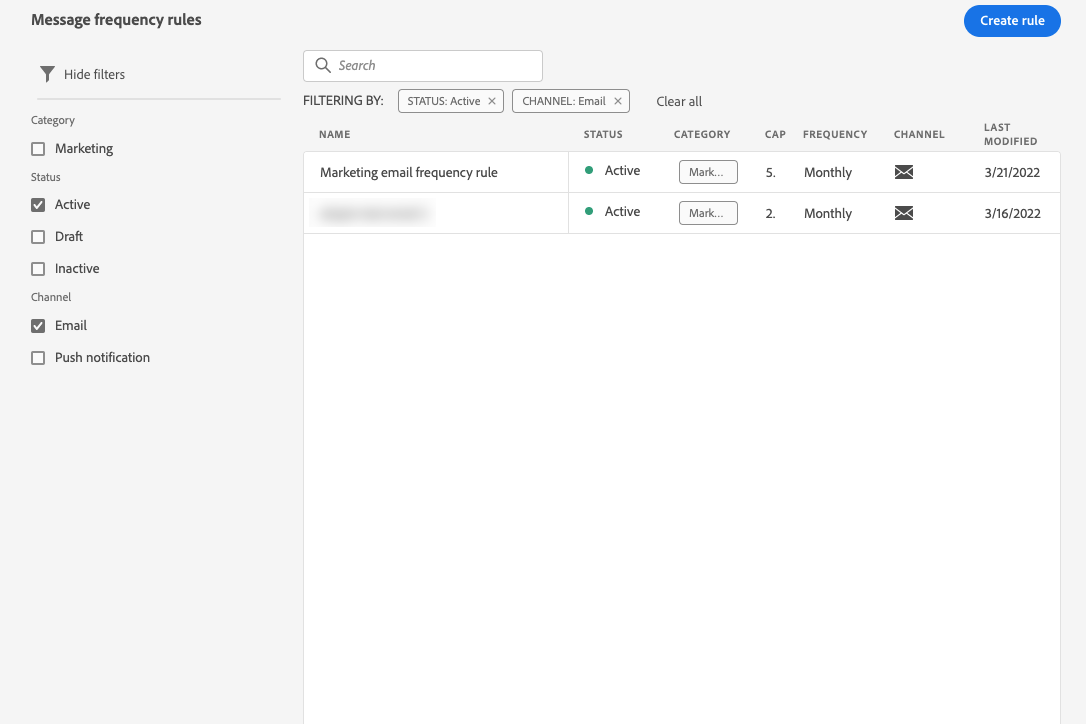
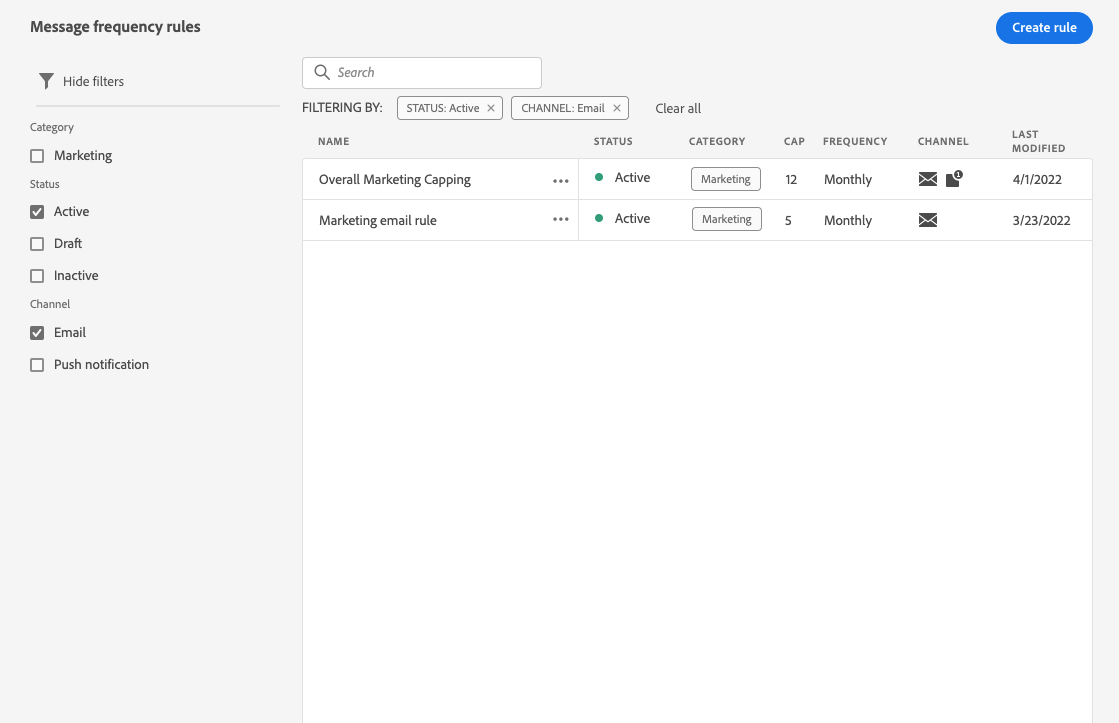
Rules updates (#679)
* Frequency rules example

* page fix

* Update frequency-rules.md

minor edits

* Update message-rules-create.png

diff --git a/help/using/configuration/frequency-rules.md b/help/using/configuration/frequency-rules.md
@@ -49,7 +49,7 @@ To create a new rule, follow the steps below.
 
    >[!NOTE]
    >
-   >Currently only the **[!UICONTROL Marketing]** category is availble.
+   >Currently only the **[!UICONTROL Marketing]** category is available.
 
 1. Set the capping for your rule, meaning the maximum number of messages that can be sent to an individual user profile each month.
 
@@ -77,7 +77,7 @@ To create a new rule, follow the steps below.
 
 ## Activate a rule {#activate-rule}
 
-To activate a message frequency rule, click the ellipsis next to the rule and select **[!UICONTROL Activate]**.
+When created, a message frequency rule has the **[!UICONTROL Draft]** status and is not impacting yet any message. To enable it, click the ellipsis next to the rule and select **[!UICONTROL Activate]**.
 
    ![](assets/message-rules-activate.png)
 
@@ -99,28 +99,70 @@ The rule's status will change to **[!UICONTROL Inactive]** and the rule will not
 
 ## Apply a frequency rule to a message {#apply-frequency-rule}
  
-To apply a frequency rule to a message, you simply need to select the category you defined for this rule when [creating the message](../messages/get-started-content.md#create-new-message).
+To apply a frequency rule to a message, follow the steps below.
 
-![](assets/message-rules-properties.png)
+1. Create a message. [Learn more](../messages/get-started-content.md#create-new-message)
 
-By selecting the **[!UICONTROL Marketing]** category, all the matching message frequency rules will be automatically applied to this message.
+1. Select the category you defined for the [rule you created](#create-new-rule).
+
+   ![](assets/message-rules-msg-properties.png)
+
+   >[!NOTE]
+   >
+   >Currently only the **[!UICONTROL Marketing]** category is available for message frequency rules.
+
+1. Select the channel(s) of your choice for your message.
+
+   ![](assets/message-rules-msg-channels.png)
+
+1. You can click the **[!UICONTROL Frequency rule]** link to view the frequency rules that will apply for the selected category and channel(s).
+
+   ![](assets/message-rules-msg-link.png)
+
+   A new tab will open to display the matching message frequency rules.
+
+1. [Design](../design/design-emails.md) and [publish](../messages/publish-manage-message.md) your message.
+
+All the frequency rules matching the selected category and channel(s) will be automatically applied to this message.
 
 <!--Clicking the link out button next to the category selector will jump you over to the rules inventory screen to see which rules will be applied to the message.-->
 
 You can view the number of profiles excluded from delivery in the [Live and Global views](../reports/message-monitoring.md), and in the [email Live report](../reports/email-live-report.md), where frequency rules will be listed as a possible reason for users excluded from delivery.
 
-## Example
+## Example: combine several rules {#frequency-rule-example}
 
 You can combine several message frequency rules, such as described in the example below.
 
-1. Create a rule called *Overall Marketing Capping*:
+1. [Create a rule](#create-new-rule) called *Overall Marketing Capping*:
 
    * Select all channels (Email, Push).
    * Set capping to 12.
 
-1. To further restrict the number of marketing-based push notifications that a user is sent, create a second rule called *Limit marketing push*:
+   ![](assets/message-rules-ex-overall-cap.png)
+
+1. To further restrict the number of marketing-based push notifications that a user is sent, create a second rule called *Push Marketing Cap*:
 
    * Select Push channel.
    * Set capping to 4.
 
-In this scenario, an individual profile can receive up to 12 marketing messages per month, but will be exclude from marketing push notifications after they have received 4 push notifications.
+   ![](assets/message-rules-ex-push-cap.png)
+
+1. Save and [activate](#activate-rule) the rule.
+
+1. Create a message. [Learn more](../messages/get-started-content.md#create-new-message)
+
+1. Select the **[!UICONTROL Marketing]** category.
+
+   ![](assets/message-rules-ex-category-maktg.png)
+
+1. Select the **[!UICONTROL Email]** and **[!UICONTROL Push Notification]** channels.
+
+   ![](assets/message-rules-ex-channels.png)
+
+1. You can click the **[!UICONTROL Frequency rule]** link to view the frequency rules that will apply for the selected category and channel(s).
+
+1. [Design](../design/design-emails.md) and [publish](../messages/publish-manage-message.md) your message.
+
+In this scenario, an individual profile:
+* can receive up to 12 marketing messages per month;
+* but will be excluded from marketing push notifications after they have received 4 push notifications.

diff --git a/help/using/personalization/personalization-library.md b/help/using/personalization/personalization-library.md
@@ -20,15 +20,15 @@ exl-id: 74b1be18-4829-4c67-ae45-cf13278cda65
 
 To access the saved expressions, click the **[!UICONTROL Library]** button in the left pane. The list displays all the expressions that have been saved by Admin users (see [Save expressions to the library](#save-expressions)).
 
-    >[!NOTE]
-    >
-    >You can use the info button to get more information about the contents of a saved expression. If you have the appropriate permissions to manage library items, the information button will appear in the ellipse menu.
+>[!NOTE]
+>
+>You can use the info button to get more information about the contents of a saved expression. If you have the appropriate permissions to manage library items, the information button will appear in the ellipse menu.
     
-    ![](assets/library-list.png)
+![](assets/library-list.png)
 
 Click the + to insert the expression into the editor. You can then customize and validate your personalization content as usual. [Learn more](../personalization/personalization-build-expressions.md)
 
-    ![](assets/library-add.png)
+![](assets/library-add.png)
 
 ## Save an expression to the library {#save-expressions}
 
